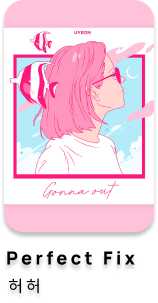
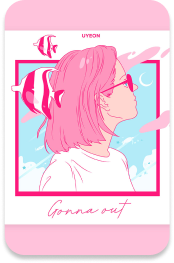
5_26 상단 메뉴 및 토글 기능 추가

diff --git a/prototype/css/style.css b/prototype/css/style.css
@@ -1,11 +1,18 @@
 /* 폰트 */
 @import url("https://fonts.googleapis.com/css2?family=Noto+Sans+KR:wght@100;300;400;700&display=swap");
 
+
+
 /* --------------------헤더 영역 start */
 /* row의 부모 컨테이너 */
 .container {
   max-width: 1000px;
   margin: 0 auto;
+}
+
+body {
+  overflow-x: hidden;
+  font-family: 'Noto Sans KR', sans-serif;
 }
 
 /* 로고와 메뉴 아이콘의 부모 컨테이너 */
@@ -18,17 +25,22 @@
   margin: 0 20px;
 }
 
-
 #header {
+  z-index: 101;
   height: 50px;
 }
 /* 헤더의 로고 */
 #header .logo {
+  cursor: pointer;
   line-height: 1.5;
   font-size: 30px;
   font-weight: 700;
-  text-shadow: 2px 2px 5px;
+}
+
+#header .logo a {
+  text-decoration: none;
   color: rgba(26, 221, 114, 0.651);
+  text-shadow: 2px 2px 5px;
 }
 
 /* 헤더의 메뉴 */
@@ -46,6 +58,7 @@
   text-align: center;
   width: 40px;
   border-radius: 50px;
+  cursor: pointer;
 }
 
 #header {
@@ -53,27 +66,118 @@
   background-color: black;
 }
 
+.close_btn {
+  position: absolute;
+  top: 10px;
+  right: 10px;
+  background-color: black;
+  color: white;
+  padding: 5px;
+  border-radius: 5px;
+  cursor: pointer;
+}
+
 /* 헤더 end */
 
 /* -------------메인 영역 start */
 
-.music h2{
-  margin: 15px 10px;
+/* see all */
+
+.all_icon {
+  display: block;
+  float: right;
+  font-weight: 700;
+  position: relative;
+  bottom: 30px;
+  right: 10px;
+  font-size: 1.05em;
+  color: green;
+}
+
+.music h2 {
+  margin: 25px 10px 15px 10px;
   font-weight: 700;
   font-size: 1.5rem;
   color: rgb(31, 197, 45);
   text-shadow: 0 0 8px rgb(31, 197, 45);
 }
 
-
 /* 데일리 뮤직 */
-.da_music .da_img{
-  display: inline;
+.da_music .da_img {
+  float: left;
+  position: relative;
 }
-
 
 /* 앨범 뮤직 */
-.al_music .al_img{
-  display: inline;
+.album {
+  position: relative;
+  top: 1rem;
 }
 
+.al_music .al_img {
+  float: left;
+  margin: 3px;
+}
+
+.al_tit {
+  margin-bottom: 10px;
+}
+.al_tit .al_title {
+  font-size: 1.1rem;
+  font-weight: 700;
+  line-height: 1.5;
+}
+.al_tit .al_desc {
+  font-size: 16px;
+}
+
+/* 헤더의 메뉴 로고 클릭 시 보이는 메뉴 */
+/* 슬라이드 메뉴를 감추기 위한 초기 상태 설정 */
+.menu-slide {
+  transform: translateX(500px) translateY(0);
+  position: absolute;
+  transition: 0.5s;
+  right: 0;
+  opacity: 0;
+  top: 0;
+  z-index: 100;
+  width: 300px;
+  height: 100%;
+  background-color: black;
+}
+
+:is(.menu-slide, .menu-show) ul{
+  margin-top: 3.5rem;
+}
+
+/* 슬라이드 메뉴가 나타날 때 애니메이션 효과 설정 */
+.menu-show {
+  opacity: 1;
+  box-shadow: 2px 2px 15px 3px black;
+  transform: translateX(0%) translateY(0);
+  z-index: 100;
+  right: 0;
+  top: 0;
+  transition: transform 0.3s ease-in-out;
+  position: absolute;
+  width: 300px;
+  height: 100%;
+  background-color: rgba(61, 170, 110, 0.877);
+}
+
+:is(.menu-slide, .menu-show) ul li {
+  margin: 20px 10px 10px 10px;
+  
+  line-height: 1.5;
+  font-size: 1;
+}
+
+.menu-show ul li:hover a {
+  color: greenyellow;
+}
+
+:is(.menu-slide, .menu-show) ul li a {
+  text-decoration: none;
+  color: white;
+  margin-left: 0.5rem;
+}

diff --git a/prototype/index.html b/prototype/index.html
@@ -57,12 +57,21 @@
     <header id="header">
       <div class="container">
         <div class="row">
-          <h1 class="logo">Ring Go Music ♬</h1>
+          <h1 class="logo"><a href="">  Ring Go Music ♬</a></h1>
           <div class="menu">
             <i class="fa fa-bars" aria-hidden="true"></i>
           </div>
         </div>
       </div>
+      <div class="menu-slide">
+        <span class="close_btn">X</span>
+        <ul>
+          <li><a href="./index.html">home</a></li>
+          <li><a href="https://www.melon.com/new/index.htm" target="_blank">최신앨범</a></li>
+          <li><a href="https://www.melon.com/chart/index.htm">top100</a></li>
+        </ul>
+      </div>
+
     </header>
     <!-- // 상단 헤드 end -->
     <!-------------------메인(main)영역--------------------->
@@ -100,6 +109,7 @@
         <article class="album">
           <div class="container">
             <h2>Latest Album</h2>
+            <span class="all_icon">See All</span>
             <div class="row">
               <div class="al_music">
                 <div class="al_img">
@@ -108,7 +118,7 @@
                       src="./images/LatestAlbum(1).png"
                       alt="샬라샬라1_10cm"
                     />
-                    <div class="al_title">
+                    <div class="al_tit">
                       <span class="al_title">Perfect Fix</span>
                       <p class="al_desc">singer</p>
                     </div>
@@ -120,7 +130,7 @@
                       src="./images/LatestAlbum(2).png"
                       alt="샬라샬라1_10cm"
                     />
-                    <div class="al_title">
+                    <div class="al_tit">
                       <span class="al_title">Perfect Fix</span>
                       <p class="al_desc">singer</p>
                     </div>
@@ -129,10 +139,10 @@
                 <div class="al_img">
                   <picture>
                     <img
-                      src="./images/LatestAlbum(3).png"
+                      src="./images/LatestAlbum(4).png"
                       alt="샬라샬라1_10cm"
                     />
-                    <div class="al_title">
+                    <div class="al_tit">
                       <span class="al_title">Perfect Fix</span>
                       <p class="al_desc">singer</p>
                     </div>
@@ -154,6 +164,6 @@
      -->
 
     <!-- 슬릭 스크립트 -->
-       <script src="./js/app.js"></script>
+       <script src="./js/script.js"></script>
   </body>
 </html>

diff --git a/prototype/js/script.js b/prototype/js/script.js
@@ -1,0 +1,35 @@
+$(document).ready(function () {
+  $('.da_music').slick({
+    slidesToShow: 1,
+    slidesToScroll: 1,
+    autoplay: true,
+    autoplaySpeed: 4000,
+    arrows: false,
+    variableWidth: true
+  })
+  $('.al_music').slick({
+    variableWidth: true,
+    slidesToShow: 1,
+    slidesToScroll: 1,
+    autoplay: true,
+    autoplaySpeed: 3000,
+    arrows: false
+  });
+});
+
+
+
+
+// 메뉴 아이콘 클릭 시 슬라이드 메뉴 토글
+document.querySelector('.menu').addEventListener('click', function() {
+  document.querySelector('.menu-slide').classList.toggle('menu-show');
+  console.log('클릭됨')
+});
+
+
+// 닫기 버튼을 클릭하면 메뉴가 사라진다.
+document.querySelector('.close_btn').addEventListener('click',()=>{
+  document.querySelector('.menu-slide').classList.toggle('menu-show');
+})
+
+
